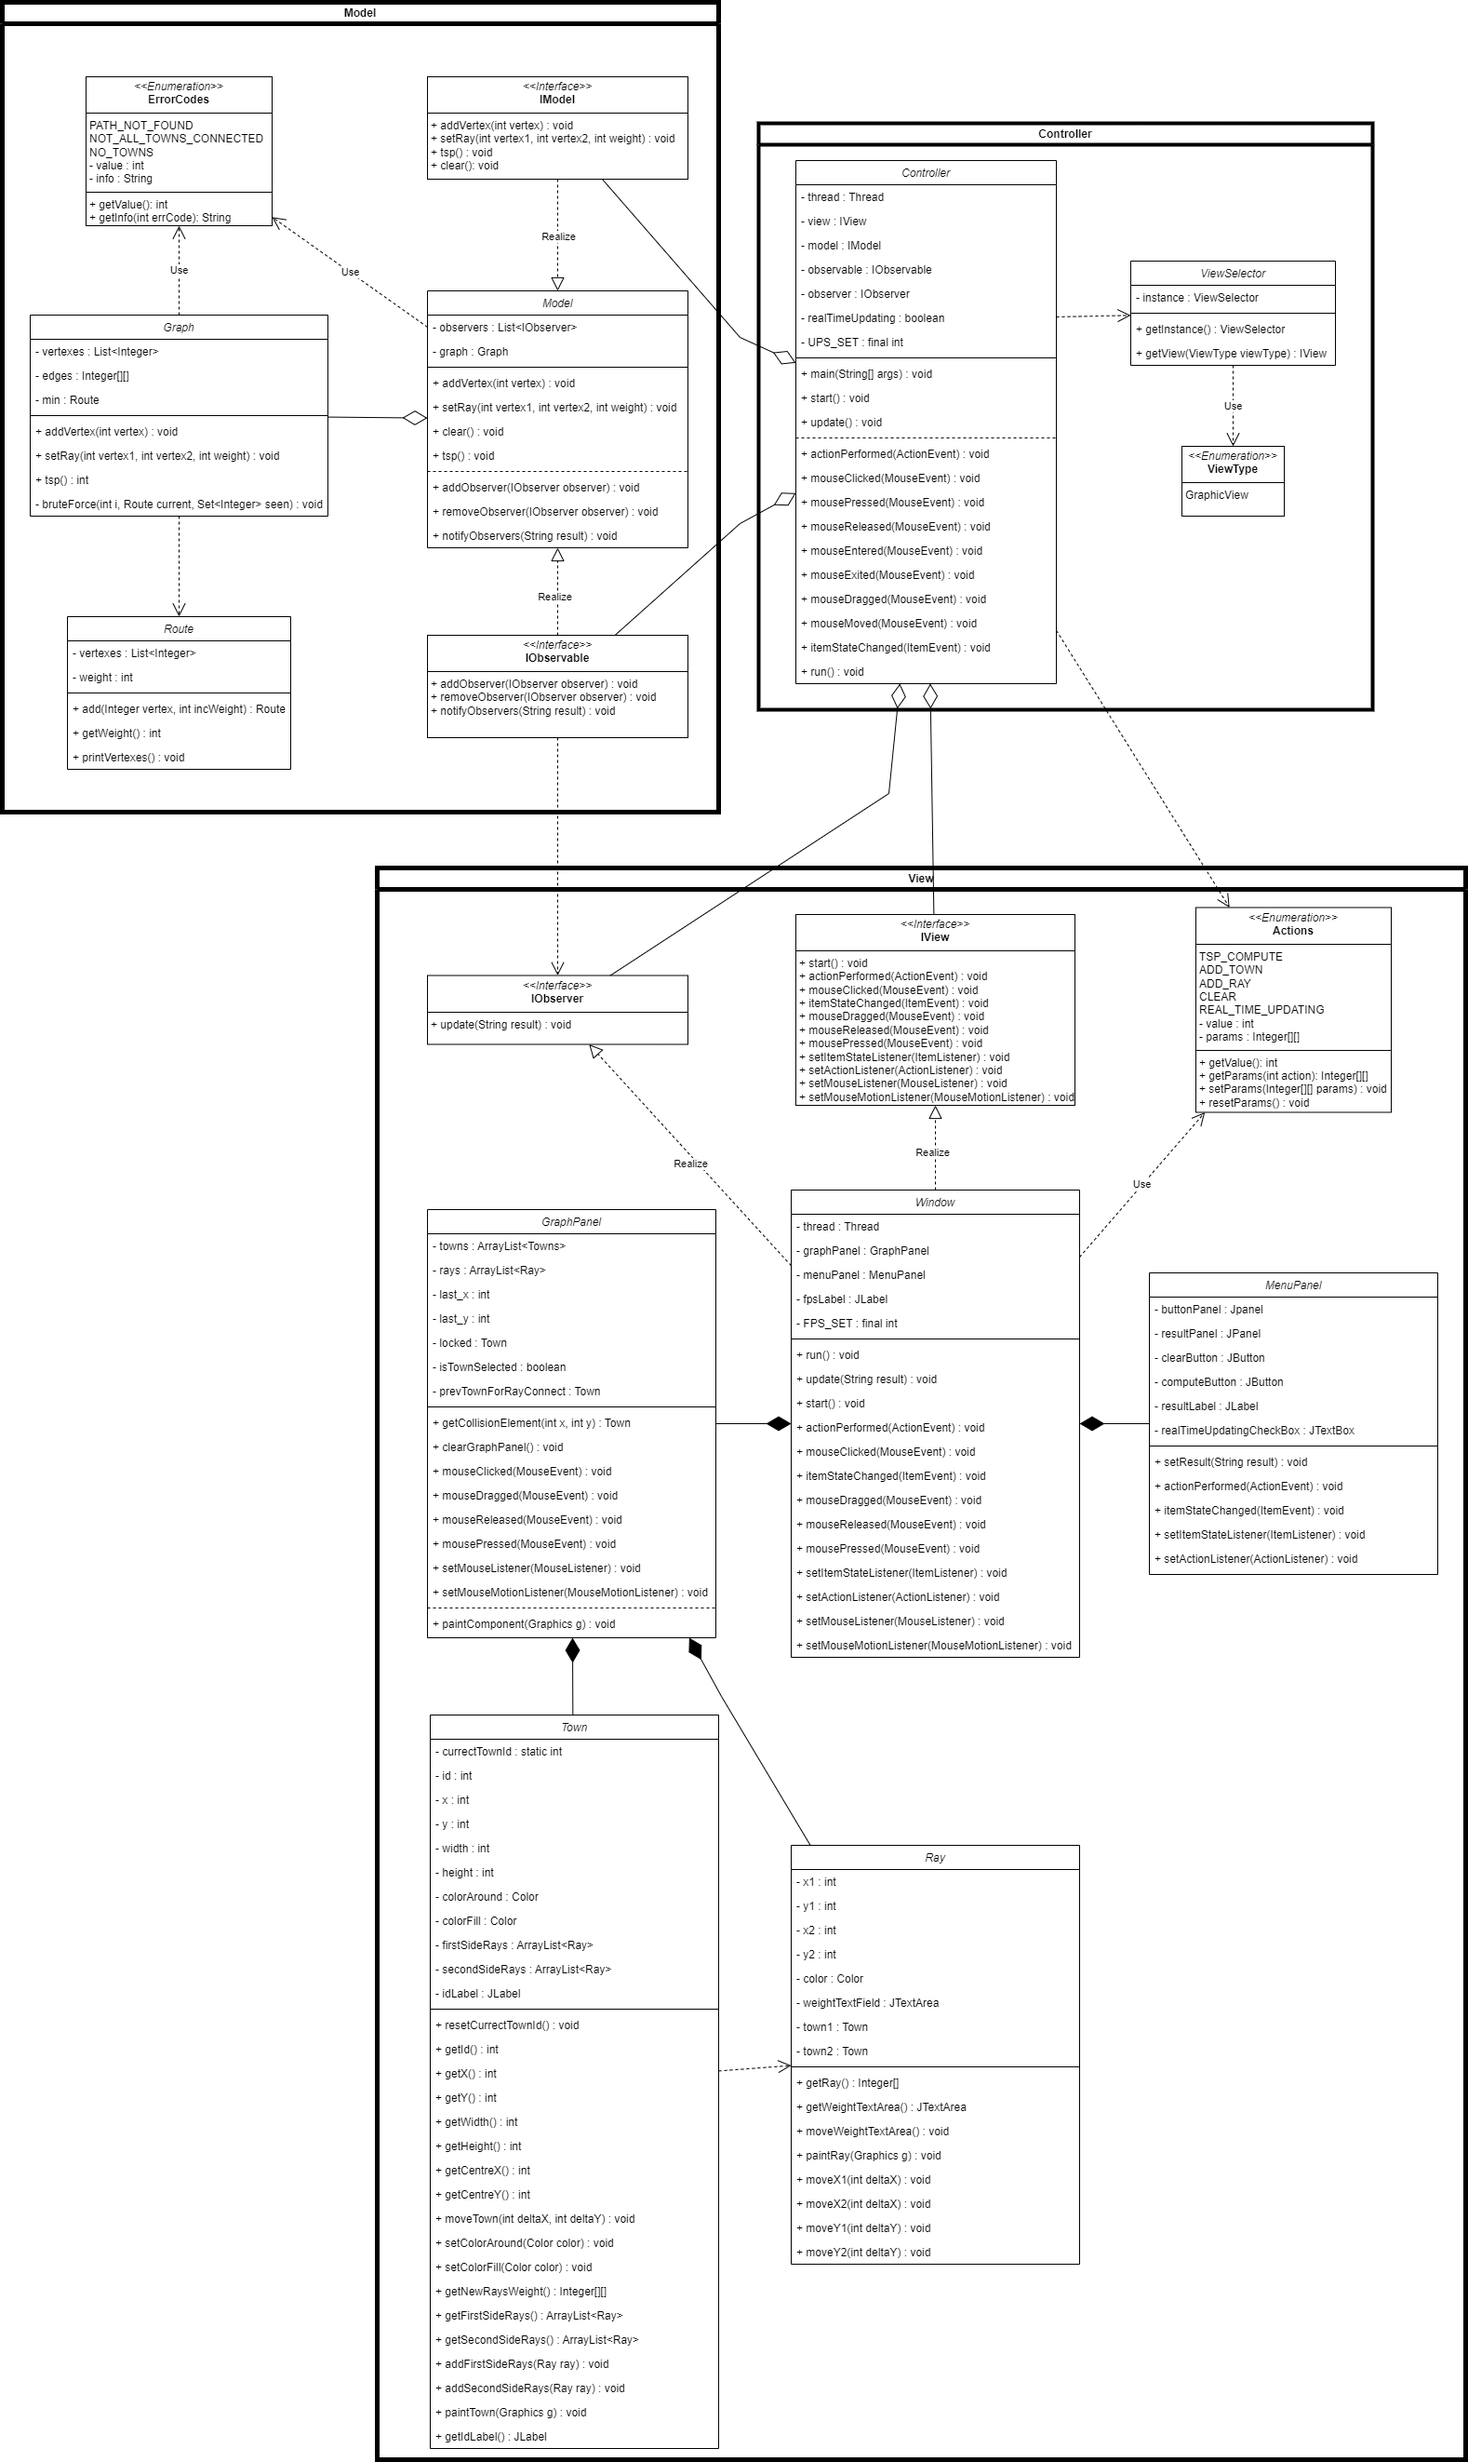
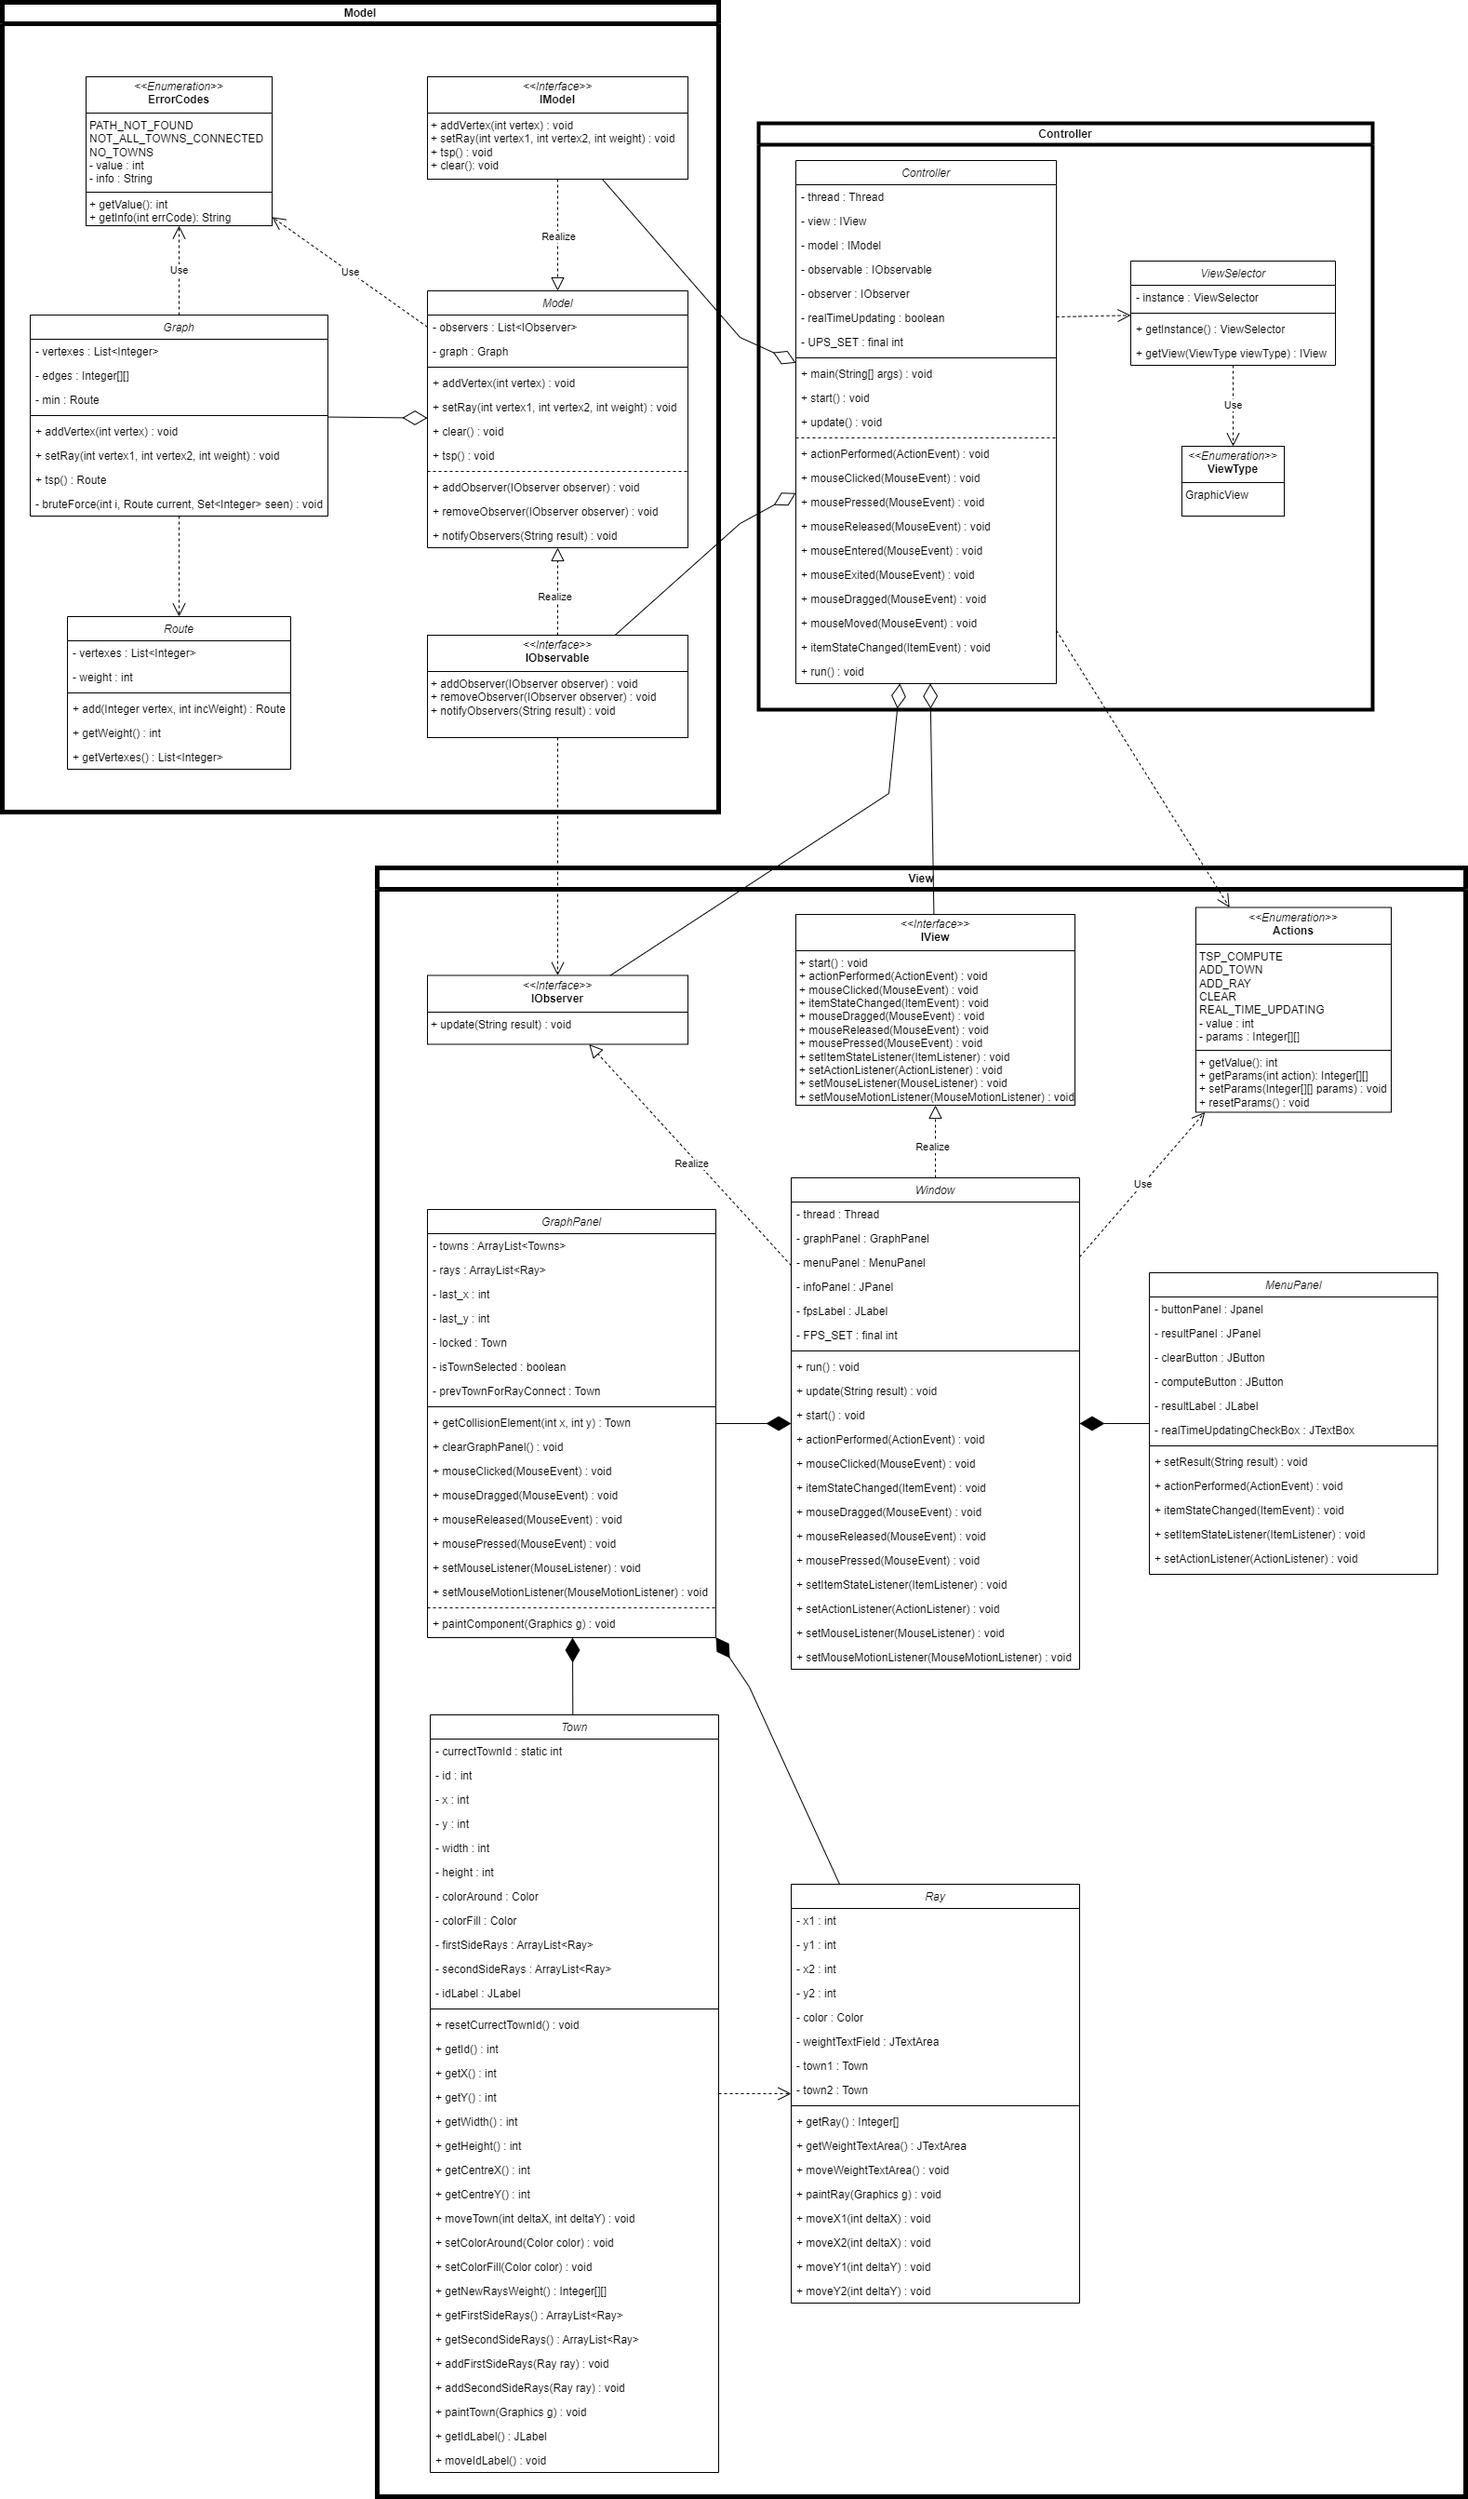
notify with path

diff --git a/src/Model/impl/Graph.java b/src/Model/impl/Graph.java
@@ -42,9 +42,9 @@ public class Graph {
         }
     }
 
-    public int tsp() {
+    public Route tsp() {
         if (edges == null) {
-            return ErrorCodes.NO_TOWNS.getValue();
+            return new Route(null, ErrorCodes.NO_TOWNS.getValue());
         }
         for (int i = 0; i < edges.length; i++) {
             int count = 0;
@@ -53,7 +53,7 @@ public class Graph {
                     count++;
                 }
             }
-            if (count == edges[i].length) return ErrorCodes.NOT_ALL_TOWNS_CONNECTED.getValue();
+            if (count == edges[i].length) return new Route(null, ErrorCodes.NOT_ALL_TOWNS_CONNECTED.getValue());
         }
 
         Set<Integer> seen = new HashSet<>();
@@ -62,9 +62,8 @@ public class Graph {
 
         bruteForce(0, new Route(List.of(this.vertexes.get(0)), 0), seen);
 
-        if (min.getWeight() != Integer.MAX_VALUE)
-            min.printVertexes();
-        return this.min.getWeight();
+
+        return this.min;
     }
 
     private void bruteForce(int i, Route current, Set<Integer> seen) {

diff --git a/src/Model/impl/Model.java b/src/Model/impl/Model.java
@@ -28,14 +28,27 @@ public class Model implements IModel, IObservable {
 
     @Override
     public void tsp() {
-        int res = graph.tsp();
+        Route route = graph.tsp();
+        int res = route.getWeight();
         if (res == Integer.MAX_VALUE)
         {
             res = ErrorCodes.PATH_NOT_FOUND.getValue();
         }
 
-        if (res >= 0)
-            this.notifyObservers(Integer.toString(res));
+        if (res >= 0) {
+            boolean isFirstIter = true;
+            String path = "";
+            for (Integer item : route.getVertexes()) {
+                if (isFirstIter) {
+                    path += "       Path: " + item;
+                    isFirstIter = false;
+                }
+                else {
+                    path += " => " + item;
+                }
+            }
+            this.notifyObservers((res) + path);
+        }
         else {
             this.notifyObservers(ErrorCodes.getInfo(res));
         }

diff --git a/src/Model/impl/Route.java b/src/Model/impl/Route.java
@@ -12,11 +12,8 @@ class Route {
         this.weight = weight;
     }
 
-    public void printVertexes() {
-        for (Integer item : vertexes) {
-            System.out.print(item + " ");
-        }
-        System.out.println();
+    public List<Integer> getVertexes() {
+        return this.vertexes;
     }
 
     public int getWeight() {
